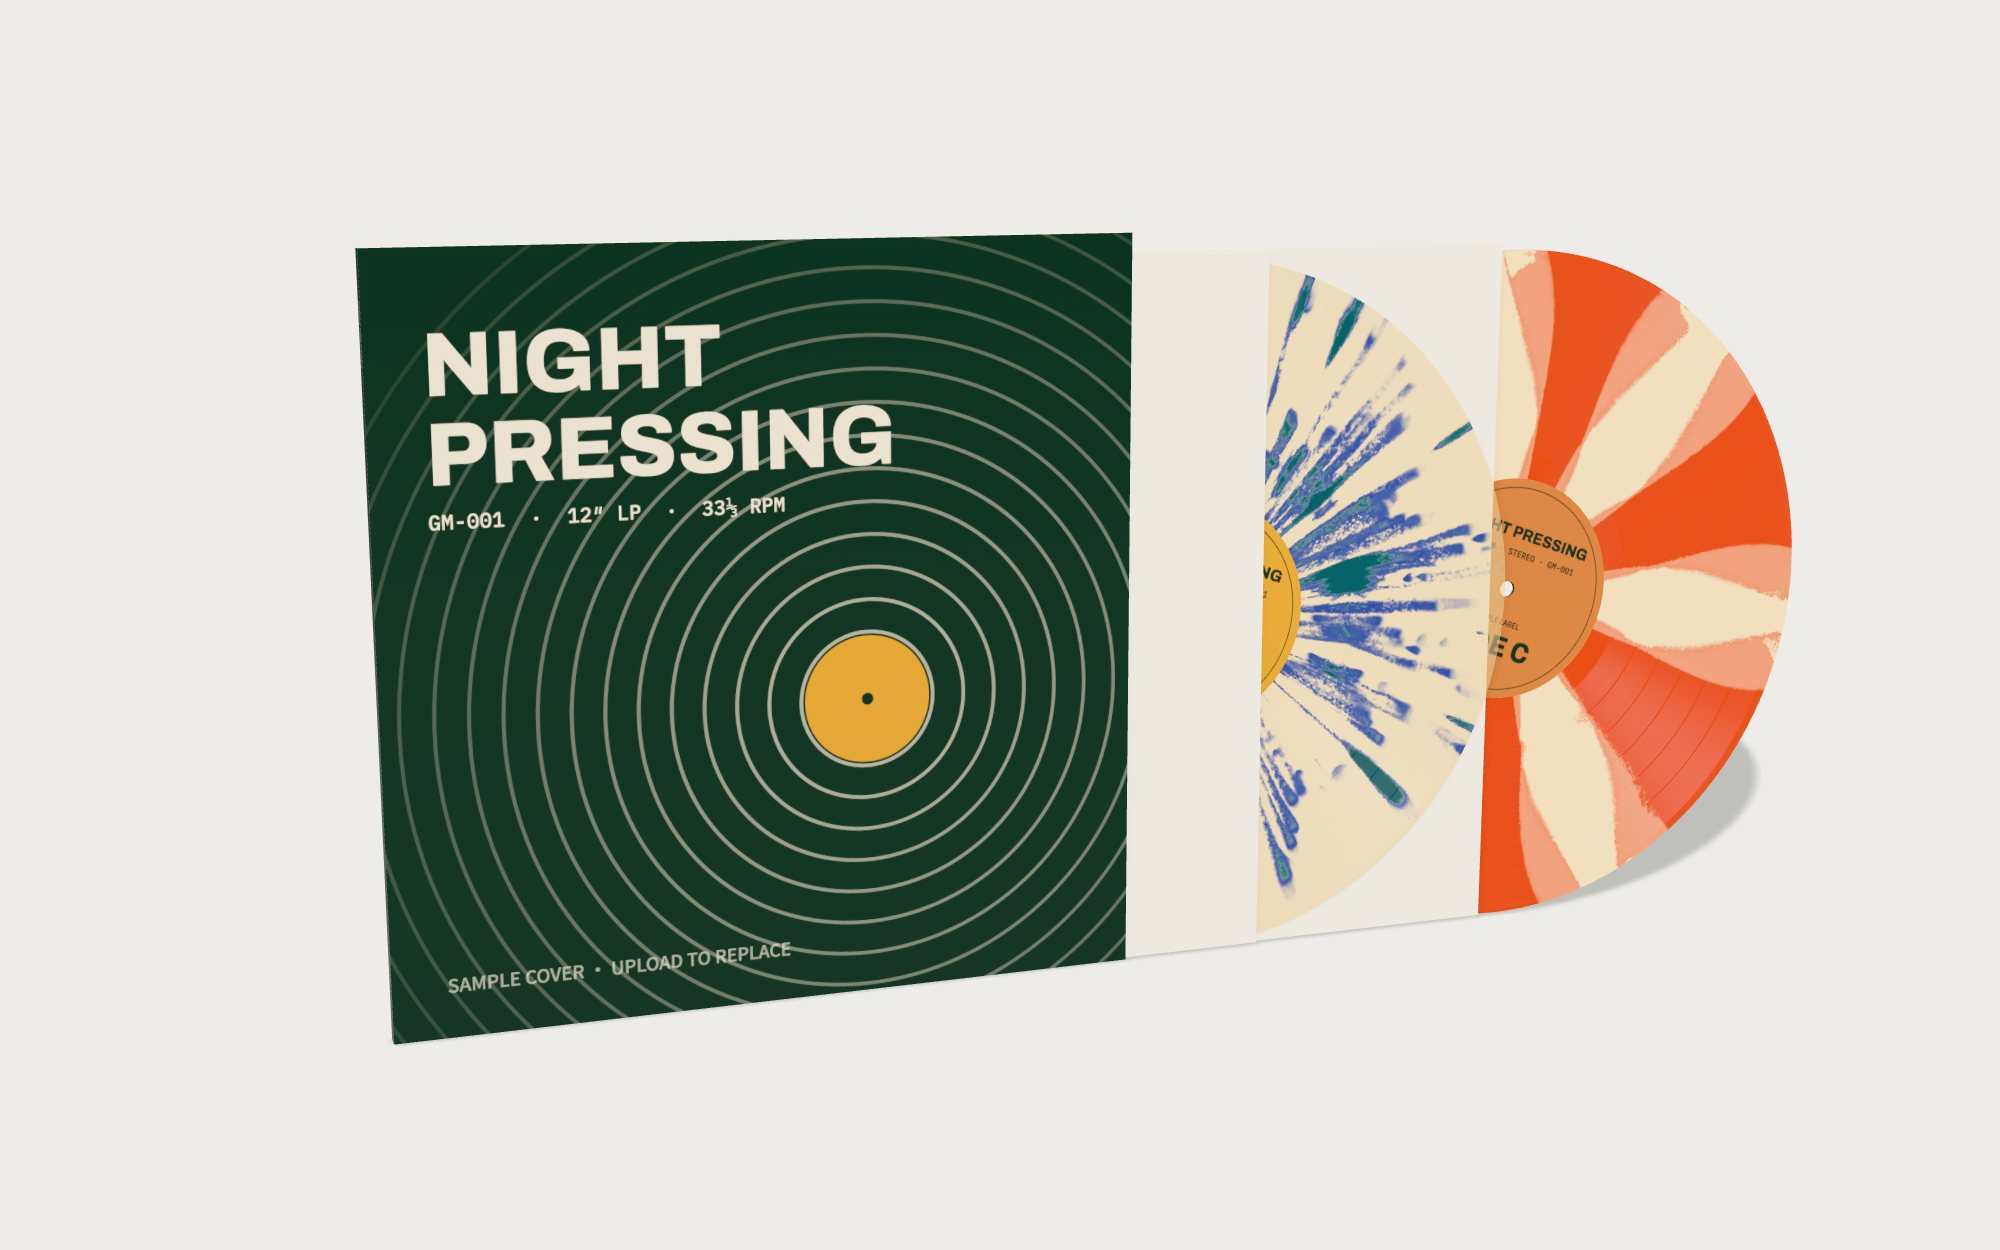
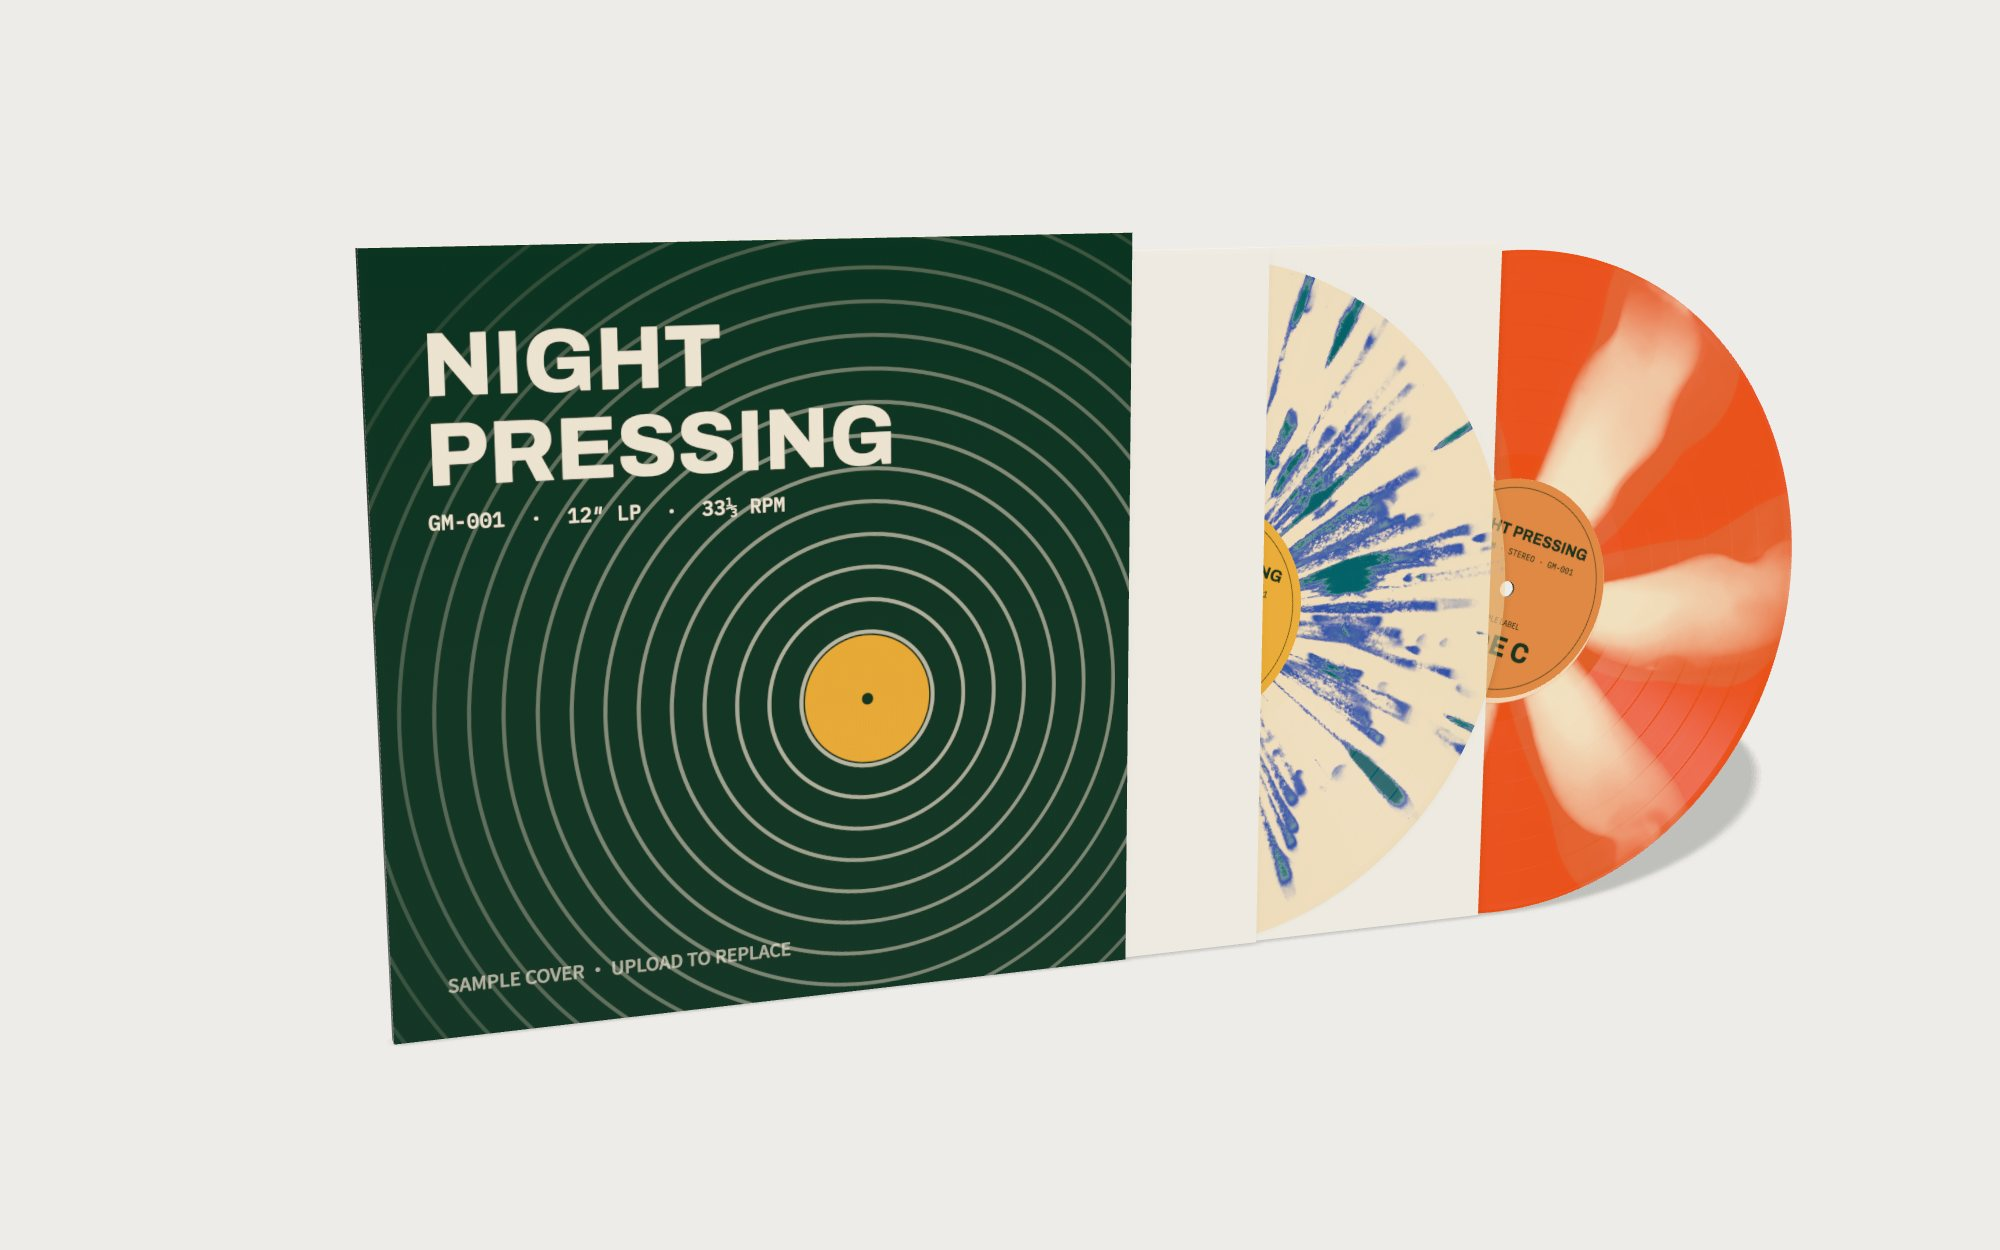
feat: add pinwheel-03; re-render the README pattern image
pinwheel-03 is a burgundy disc with long pink and white petals, two
tonal layers (accent derived the pink along the line from white to the
base and greyed it). The README pattern shot uses pinwheel-02, so it is
re-rendered with the new mask.

Changed region(s): [[0.744, 0.4368, 0.899, 0.7176], [0.744, 0.1872, 0.899, 0.4056]]

diff --git a/tools/bake-vinyl-masks.py b/tools/bake-vinyl-masks.py
@@ -139,6 +139,11 @@ CURATED = {
                               'master': 'output/texture-gen/library/pinwheel-02', 'reference': 'https://www.pinterest.com/pin/91479436177557268/',
[2 lines of base64/hex data omitted]
+    'pinwheel-03': {'role': 'layout', 'palette': 'tonal', 'layers': ['layer1.png', 'layer2.png'], 'base': '#4b0b1b', 'colors': ['#f6e5f3', '#e1338c'],
+                   'source': {'kind': 'unlicensed-reference', 'operation': 'photo variant + colour extraction', 'date': '2026-10-21',
+                              'master': 'output/texture-gen/library/pinwheel-03', 'reference': 'https://www.pinterest.com/pin/836965912045205685/',
[2 lines of base64/hex data omitted]
 }
 
 # meta.disc_frac is the disc diameter as a fraction of the master's width. The masters extend the
